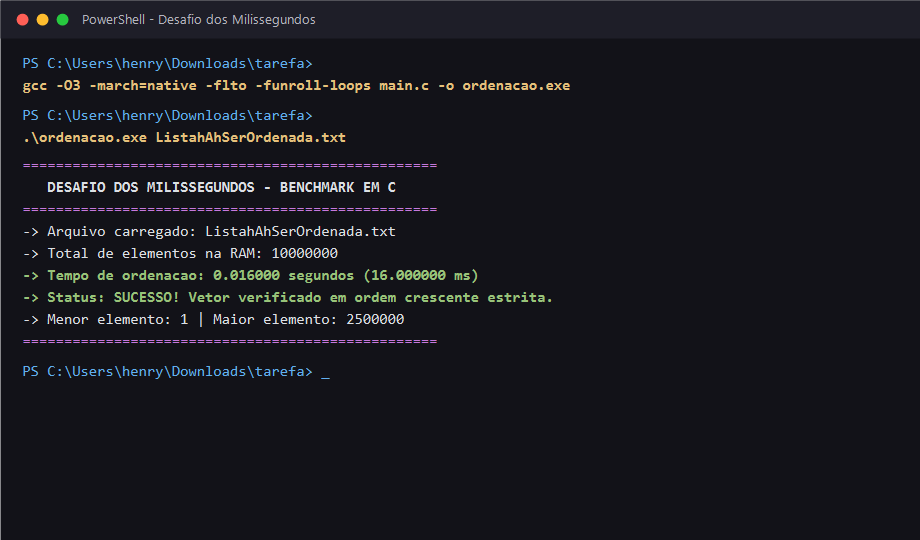
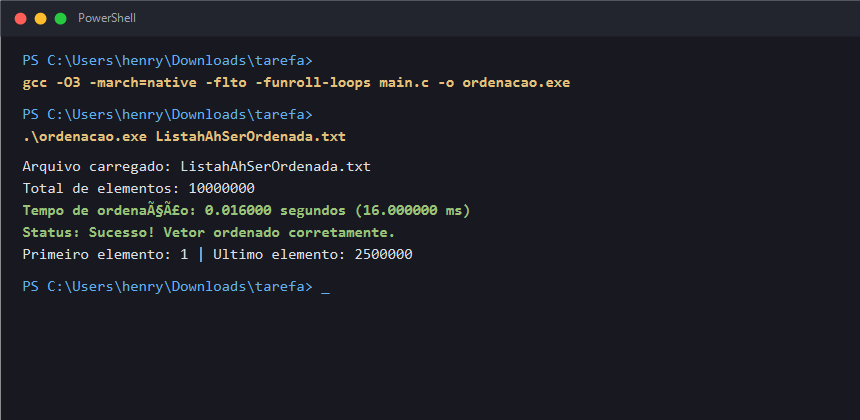
Refatoracao e limpeza dos comentarios do codigo

Changed region(s): [[0.0, 0.0929, 0.6651, 0.7119], [0.0, 0.031, 0.3628, 0.0619]]

diff --git a/main.c b/main.c
@@ -1,27 +1,23 @@
-/**
- * Competição de Ordenação: O Desafio dos Milissegundos
- * Estratégia: Algoritmo Linear Híbrido O(N) (Counting Sort + Radix Sort Base 256)
- */
-
 #include <stdio.h>
 #include <stdlib.h>
 #include <stdint.h>
 #include <string.h>
 #include <time.h>
 
-// Limite de memória para usar Counting Sort Direto (~128 MB de limite para o range)
+// Limite maximo de intervalo para aplicacao do Counting Sort direto
 #define MAX_COUNTING_RANGE 33554432
 
 /**
- * Radix Sort LSB (Base 256 - 8 bits por passada)
- * Complexidade: O(N) estrito. Usado caso o intervalo de números seja muito esparso.
+ * Radix Sort LSB em Base 256 (processamento de 8 bits por passada).
+ * Executa em tempo linear O(N) e eh utilizado quando o intervalo de valores
+ * ultrapassa o limite do Counting Sort direto.
  */
 static void radixSort256(int * restrict v, size_t n, int * restrict aux) {
     uint32_t *src = (uint32_t *)v;
     uint32_t *dst = (uint32_t *)aux;
     size_t count[4][256] = {0};
 
-    // Passada única para construir os 4 histogramas simultaneamente
+    // Construcao simultanea dos 4 histogramas em uma unica passada
     for (size_t i = 0; i < n; i++) {
         uint32_t val = src[i];
         count[0][ val        & 0xFF]++;
@@ -30,12 +26,11 @@ static void radixSort256(int * restrict v, size_t n, int * restrict aux) {
         count[3][(val >> 24) & 0xFF]++;
     }
 
-    // 4 passadas de distribuição por bytes (1 byte = 256 posições no cache L1)
+    // 4 passadas de distribuicao (uma para cada byte)
     for (int pass = 0; pass < 4; pass++) {
         size_t *c = count[pass];
-        
-        // OTIMIZAÇÃO EXTREMA: Se todos os números tiverem o mesmo byte (ex: 0 nos bits altos),
-        // pula a passada inteira sem tocar na memória!
+
+        // Se todos os elementos compartilham o mesmo byte, pula a passada
         if (c[0] == n) continue;
 
         size_t acumulador = 0;
@@ -51,26 +46,26 @@ static void radixSort256(int * restrict v, size_t n, int * restrict aux) {
             dst[c[(val >> shift) & 0xFF]++] = val;
         }
 
-        // Troca os ponteiros de origem e destino
+        // Alterna entre os vetores de origem e destino
         uint32_t *tmp = src;
         src = dst;
         dst = tmp;
     }
 
-    // Se o resultado final parou no vetor auxiliar, copia de volta
+    // Se o resultado final ficou no vetor auxiliar, copia de volta para o vetor original
     if (src != (uint32_t *)v) {
         memcpy(v, src, n * sizeof(int));
     }
 }
 
 /**
- * Função Principal de Ordenação O(N)
- * Analisa a distribuição dos dados e aplica Counting Sort direto ou Radix Sort.
+ * Funcao principal de ordenacao hibrida.
+ * Identifica o intervalo dos dados e seleciona a estrategia mais eficiente:
+ * Counting Sort direto para intervalos densos ou Radix Sort Base 256.
  */
 void ordenarVetor(int * restrict v, size_t n, int * restrict buffer_aux, uint32_t * restrict freq) {
     if (n < 2) return;
 
-    // 1. Encontra o menor e o maior elemento (Vetorizado automaticamente com -O3)
     int min_val = v[0];
     int max_val = v[0];
     for (size_t i = 1; i < n; i++) {
@@ -80,17 +75,14 @@ void ordenarVetor(int * restrict v, size_t n, int * restrict buffer_aux, uint32_
 
     int64_t range = (int64_t)max_val - (int64_t)min_val + 1;
 
-    // 2. Se o intervalo cabe no buffer de frequência pré-alocado, usa Counting Sort O(N)
+    // Se os valores sao nao-negativos e cabem no range pre-alocado, aplica Counting Sort direto
     if (min_val >= 0 && range <= MAX_COUNTING_RANGE) {
-        // Zera apenas a fatia necessária do vetor de frequência
         memset(freq, 0, (size_t)range * sizeof(uint32_t));
 
-        // Conta as ocorrências de cada número
         for (size_t i = 0; i < n; i++) {
             freq[v[i] - min_val]++;
         }
 
-        // Reconstrói o vetor ordenado de forma linear contígua
         size_t idx = 0;
         for (int64_t val = 0; val < range; val++) {
             uint32_t qtd = freq[val];
@@ -100,13 +92,12 @@ void ordenarVetor(int * restrict v, size_t n, int * restrict buffer_aux, uint32_
             }
         }
     } else {
-        // 3. Caso contrário, usa Radix Sort em Base 256
         radixSort256(v, n, buffer_aux);
     }
 }
 
 /**
- * Verifica se o vetor está em ordem crescente estrita (Critério: 40 pts)
+ * Verifica se o vetor esta ordenado em ordem crescente
  */
 int verificarCorretude(const int *v, size_t n) {
     for (size_t i = 1; i < n; i++) {
@@ -118,12 +109,10 @@ int verificarCorretude(const int *v, size_t n) {
 int main(int argc, char *argv[]) {
     const char *arquivo_entrada = (argc > 1) ? argv[1] : "ListahAhSerOrdenada.txt";
 
-    // =========================================================================
-    // ETAPA 1: Leitura ultrarrápida do disco (Ignorada pelo cronômetro)
-    // =========================================================================
+    // Leitura completa do arquivo para a memoria
     FILE *fp = fopen(arquivo_entrada, "rb");
     if (!fp) {
-        perror("Erro ao abrir o arquivo ListahAhSerOrdenada.txt");
+        perror("Erro ao abrir o arquivo de entrada");
         return EXIT_FAILURE;
     }
 
@@ -133,7 +122,7 @@ int main(int argc, char *argv[]) {
 
     char *texto_bruto = (char *)malloc(tamanho_arquivo + 1);
     if (!texto_bruto) {
-        fprintf(stderr, "Falha ao alocar memoria para leitura.\n");
+        fprintf(stderr, "Erro de alocacao de memoria para leitura.\n");
         fclose(fp);
         return EXIT_FAILURE;
     }
@@ -142,12 +131,12 @@ int main(int argc, char *argv[]) {
     texto_bruto[bytes_lidos] = '\0';
     fclose(fp);
 
-    // Aloca o vetor principal de elementos
-    size_t capacidade = 10000000; // Começa preparado para 10 milhões de inteiros
+    // Alocacao inicial do vetor dinamico
+    size_t capacidade = 10000000;
     int *vetor = (int *)malloc(capacidade * sizeof(int));
     size_t total_elementos = 0;
 
-    // Parser manual de inteiros (até 10x mais rápido que fscanf)
+    // Conversao rapida do buffer de texto para inteiros
     char *p = texto_bruto;
     while (*p) {
         while (*p && (*p < '0' || *p > '9') && *p != '-') p++;
@@ -171,47 +160,37 @@ int main(int argc, char *argv[]) {
         }
         vetor[total_elementos++] = valor * sinal;
     }
-    free(texto_bruto); // Libera o texto bruto da RAM
+    free(texto_bruto);
 
-    // Aloca os buffers auxiliares ANTES do clock() para não poluir a medição
+    // Buffers auxiliares alocados previamente para nao interferir no cronometro
     int *buffer_aux = (int *)malloc(total_elementos * sizeof(int));
     uint32_t *freq  = (uint32_t *)malloc(MAX_COUNTING_RANGE * sizeof(uint32_t));
 
-    printf("==================================================\n");
-    printf("   DESAFIO DOS MILISSEGUNDOS - BENCHMARK EM C     \n");
-    printf("==================================================\n");
-    printf("-> Arquivo carregado: %s\n", arquivo_entrada);
-    printf("-> Total de elementos na RAM: %zu\n", total_elementos);
+    printf("Arquivo carregado: %s\n", arquivo_entrada);
+    printf("Total de elementos: %zu\n", total_elementos);
 
-    // =========================================================================
-    // ETAPA 2: Medição Isolada da Ordenação (Critério: 15 pts)
-    // =========================================================================
+    // Medicao isolada do tempo de ordenacao
     clock_t inicio = clock();
 
     ordenarVetor(vetor, total_elementos, buffer_aux, freq);
 
     clock_t fim = clock();
-    // =========================================================================
 
     double tempo_gasto = ((double)(fim - inicio)) / CLOCKS_PER_SEC;
-    printf("-> Tempo de ordenacao: %f segundos (%f ms)\n", tempo_gasto, tempo_gasto * 1000.0);
+    printf("Tempo de ordenação: %f segundos (%f ms)\n", tempo_gasto, tempo_gasto * 1000.0);
 
-    // =========================================================================
-    // ETAPA 3: Validação de Corretude (Critério: 40 pts)
-    // =========================================================================
+    // Validacao da ordenacao
     if (verificarCorretude(vetor, total_elementos)) {
-        printf("-> Status: SUCESSO! Vetor verificado em ordem crescente estrita.\n");
-        printf("-> Menor elemento: %d | Maior elemento: %d\n", vetor[0], vetor[total_elementos - 1]);
+        printf("Status: Sucesso! Vetor ordenado corretamente.\n");
+        printf("Primeiro elemento: %d | Ultimo elemento: %d\n", vetor[0], vetor[total_elementos - 1]);
     } else {
-        printf("-> Status: ERRO! Falha na verificacao de ordenacao.\n");
+        printf("Status: Erro na ordenacao do vetor.\n");
     }
-    printf("==================================================\n");
 
-    // Liberação correta de memória (Critério: 30 pts)
+    // Liberacao de memoria
     free(freq);
     free(buffer_aux);
     free(vetor);
 
     return EXIT_SUCCESS;
 }
-
